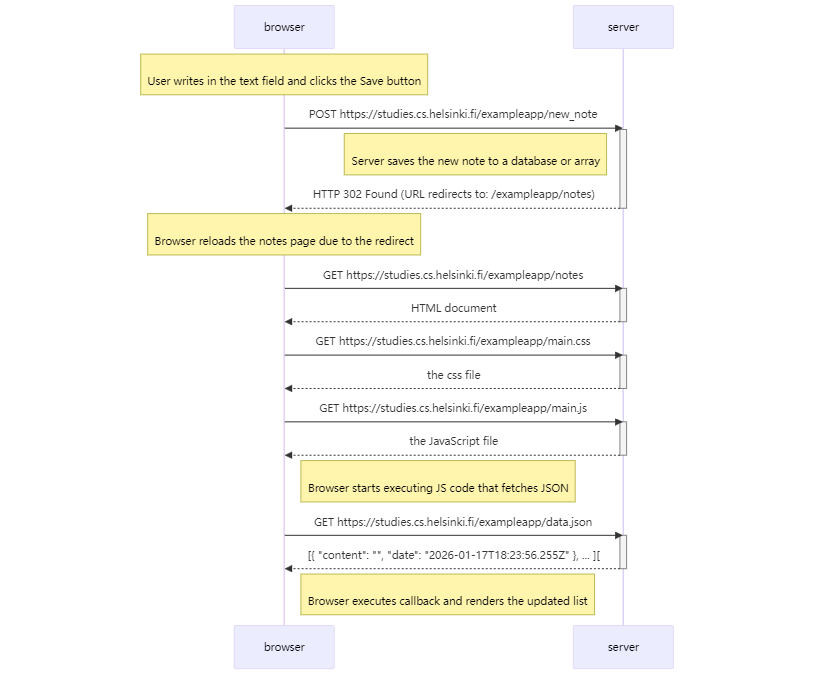
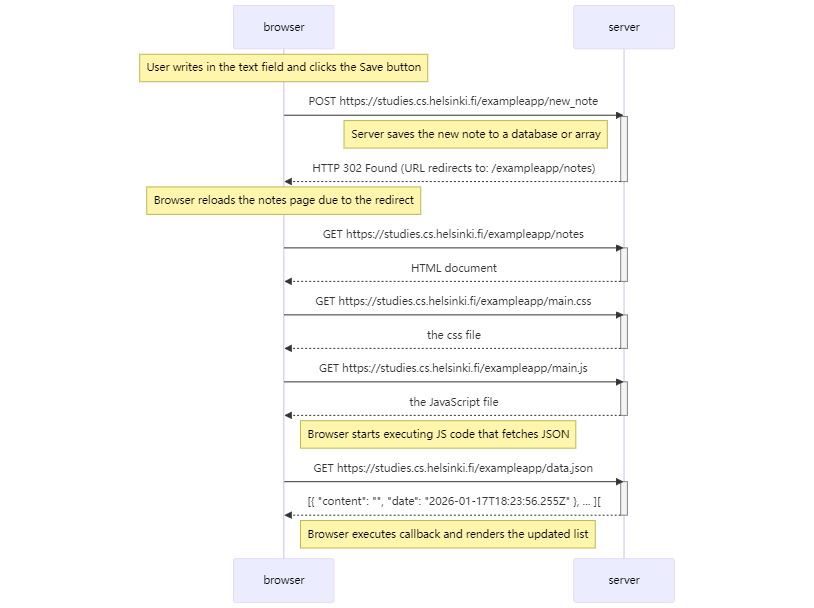
part0

diff --git a/Part0/exercise_0.4.md b/Part0/exercise_0.4.md
@@ -3,15 +3,15 @@ sequenceDiagram
     participant browser
     participant server
 
-    Note over browser: <br/>User writes in the text field and clicks the Save button
+    Note over browser: User writes in the text field and clicks the Save button
 
     browser->>server: POST https://studies.cs.helsinki.fi/exampleapp/new_note
     activate server
-    Note left of server:<br/>Server saves the new note to a database or array
+    Note left of server:Server saves the new note to a database or array
     server-->>browser: HTTP 302 Found (URL redirects to: /exampleapp/notes)
     deactivate server
 
-    Note over browser: <br/>Browser reloads the notes page due to the redirect
+    Note over browser: Browser reloads the notes page due to the redirect
 
     browser->>server: GET https://studies.cs.helsinki.fi/exampleapp/notes
     activate server
@@ -28,12 +28,12 @@ sequenceDiagram
     server-->>browser: the JavaScript file
     deactivate server
 
-    Note right of browser: <br/>Browser starts executing JS code that fetches JSON
+    Note right of browser: Browser starts executing JS code that fetches JSON
 
     browser->>server: GET https://studies.cs.helsinki.fi/exampleapp/data.json
     activate server
     server-->>browser: [{ "content": "", "date": "2026-01-17T18:23:56.255Z" }, ... ][
     deactivate server
 
-    Note right of browser: <br/>Browser executes callback and renders the updated list
+    Note right of browser: Browser executes callback and renders the updated list
 ```

diff --git a/Part0/exercise_0.5.md b/Part0/exercise_0.5.md
@@ -1,0 +1,30 @@
+```mermaid
+sequenceDiagram
+    participant browser
+    participant server
+
+    browser->>server: GET https://studies.cs.helsinki.fi/exampleapp/spa
+    activate server
+    server-->>browser: HTML document
+    deactivate server
+
+    browser->>server: GET https://studies.cs.helsinki.fi/exampleapp/main.css
+    activate server
+    server-->>browser: the css file
+    deactivate server
+
+    browser->>server: GET https://studies.cs.helsinki.fi/exampleapp/spa.js
+    activate server
+    server-->>browser: the JavaScript file
+    deactivate server
+
+    Note right of browser: The browser starts executing the JS code that fetches the JSON from the server
+
+    browser->>server: GET https://studies.cs.helsinki.fi/exampleapp/data.json
+    activate server
+    server-->>browser: [{ "content": "", "date": "2026-01-17T18:24:12.350Z" }, ... ]
+    deactivate server
+
+    Note right of browser: The browser executes the callback function that renders the notes
+```
+

diff --git a/Part0/exercise_0.6.md b/Part0/exercise_0.6.md
@@ -1,0 +1,19 @@
+```mermaid
+sequenceDiagram
+    participant browser
+    participant server
+
+    Note over browser: User creates a note and clicks Save
+    Note over browser: JS adds new note to local list
+    Note over browser: JS updates the note list in DOM
+    Note over browser: JS converts new note to JSON
+
+    browser->>server: POST https://studies.cs.helsinki.fi/exampleapp/new_note_spa
+    activate server
+    Note right of browser: Payload: {"content": "hblovo", "date": "2026-01-18T07:14:39.339Z"}
+    server-->>browser: HTTP 201 Created
+    deactivate server
+
+    Note right of browser: Browser remains on the same page (no reload)
+```
+
